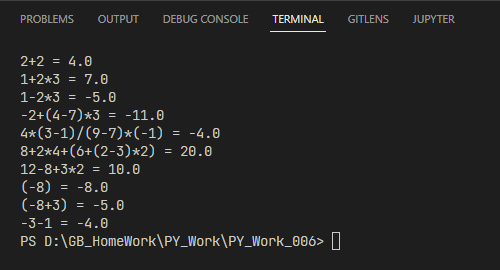
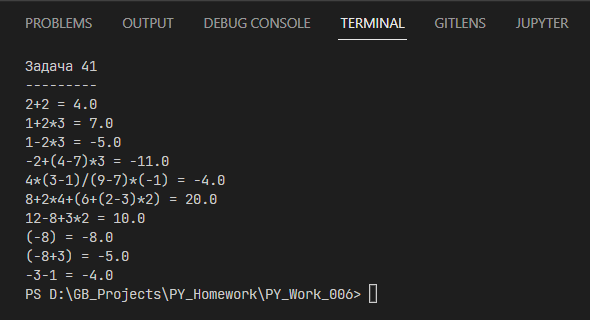
tasks solved

Changed region(s): [[0.03, 0.1778, 0.69, 0.9481], [0.03, 0.0296, 0.96, 0.1481], [0.27, 0.3852, 0.33, 0.4444]]

diff --git a/FOOTBALL/football.py b/FOOTBALL/football.py
@@ -28,3 +28,72 @@
 # Спартак: 2 0 0 2 0
 # Зенит: 2 1 0 1 3
 # Локомотив: 2 2 0 0 6
+
+import os
+
+# чтение данных
+
+## MAIN ##
+os.system('cls')
+
+team_names = []
+team_win = []
+team_luse = []
+team_games = []
+team_draw = []
+team_score = []
+
+fl = open('data.txt')
+cnt_rec = int(fl.readline())
+
+for i in range(cnt_rec):
+    line = fl.readline()
+    info = line.split(';')
+    
+    info[1::2] = list(map(lambda x: int(x), info[1::2]))
+    
+    pos = []
+    for i in (0,2):
+        if info[i] not in team_names:
+            team_names.append(info[i])
+            team_luse.append(0)
+            team_score.append(0)
+            team_win.append(0)
+            team_games.append(0)
+            team_draw.append(0)
+
+        pos.append(team_names.index(info[i]))
+
+    team_games[pos[0]] += 1
+    team_games[pos[1]] += 1
+    
+    if info[1] > info[3]:
+        team_win[pos[0]] += 1
+        team_score[pos[0]] += 3
+        team_luse[pos[1]] += 1
+    elif info[1] < info[3]:
+        team_win[pos[1]] += 1
+        team_score[pos[1]] += 3
+        team_luse[pos[0]] += 1
+    else:
+        team_draw[pos[0]] += 1
+        team_draw[pos[1]] += 1
+        team_score[pos[0]] += 1
+        team_score[pos[1]] += 1
+
+fl.close()
+
+team_win = list(map(lambda l : str(l), team_win))
+team_luse = list(map(lambda l : str(l), team_luse))
+team_games = list(map(lambda l : str(l), team_games))
+team_draw = list(map(lambda l : str(l), team_draw))
+team_score = list(map(lambda l : str(l), team_score))
+
+full_info = list(zip(team_names, team_games, team_win, team_draw, team_luse, team_score))
+
+print('football')
+print('--------')
+
+for x in full_info:
+    print(' '.join(x))
+

diff --git a/Task_041/task_041.py b/Task_041/task_041.py
@@ -117,6 +117,8 @@ tasks = ((
     '-3-1'
     ))
 
+print('Задача 41')
+print('---------')
 for t in tasks:
     lst = parse_str(t)
     print(f'{t} = {calc_val(lst)}')

diff --git a/Task_043/task_043.py b/Task_043/task_043.py
@@ -20,5 +20,7 @@ tests = ((
     [1, 1, 3, 5, 4, 3, 3, 10]
 ))
 
+print('Задача 43')
+print('---------')
 for t in tests:
     print(f'{t} -> {unic_list(t)}')

diff --git a/README.md b/README.md
@@ -80,4 +80,8 @@ Sample Output:
 
 Локомотив: 2 2 0 0 6
 
+Скриншот 
+
+!['Скрин 3'](/ScreenShots/task_foot.png 'Screen 3')
+
 ---
